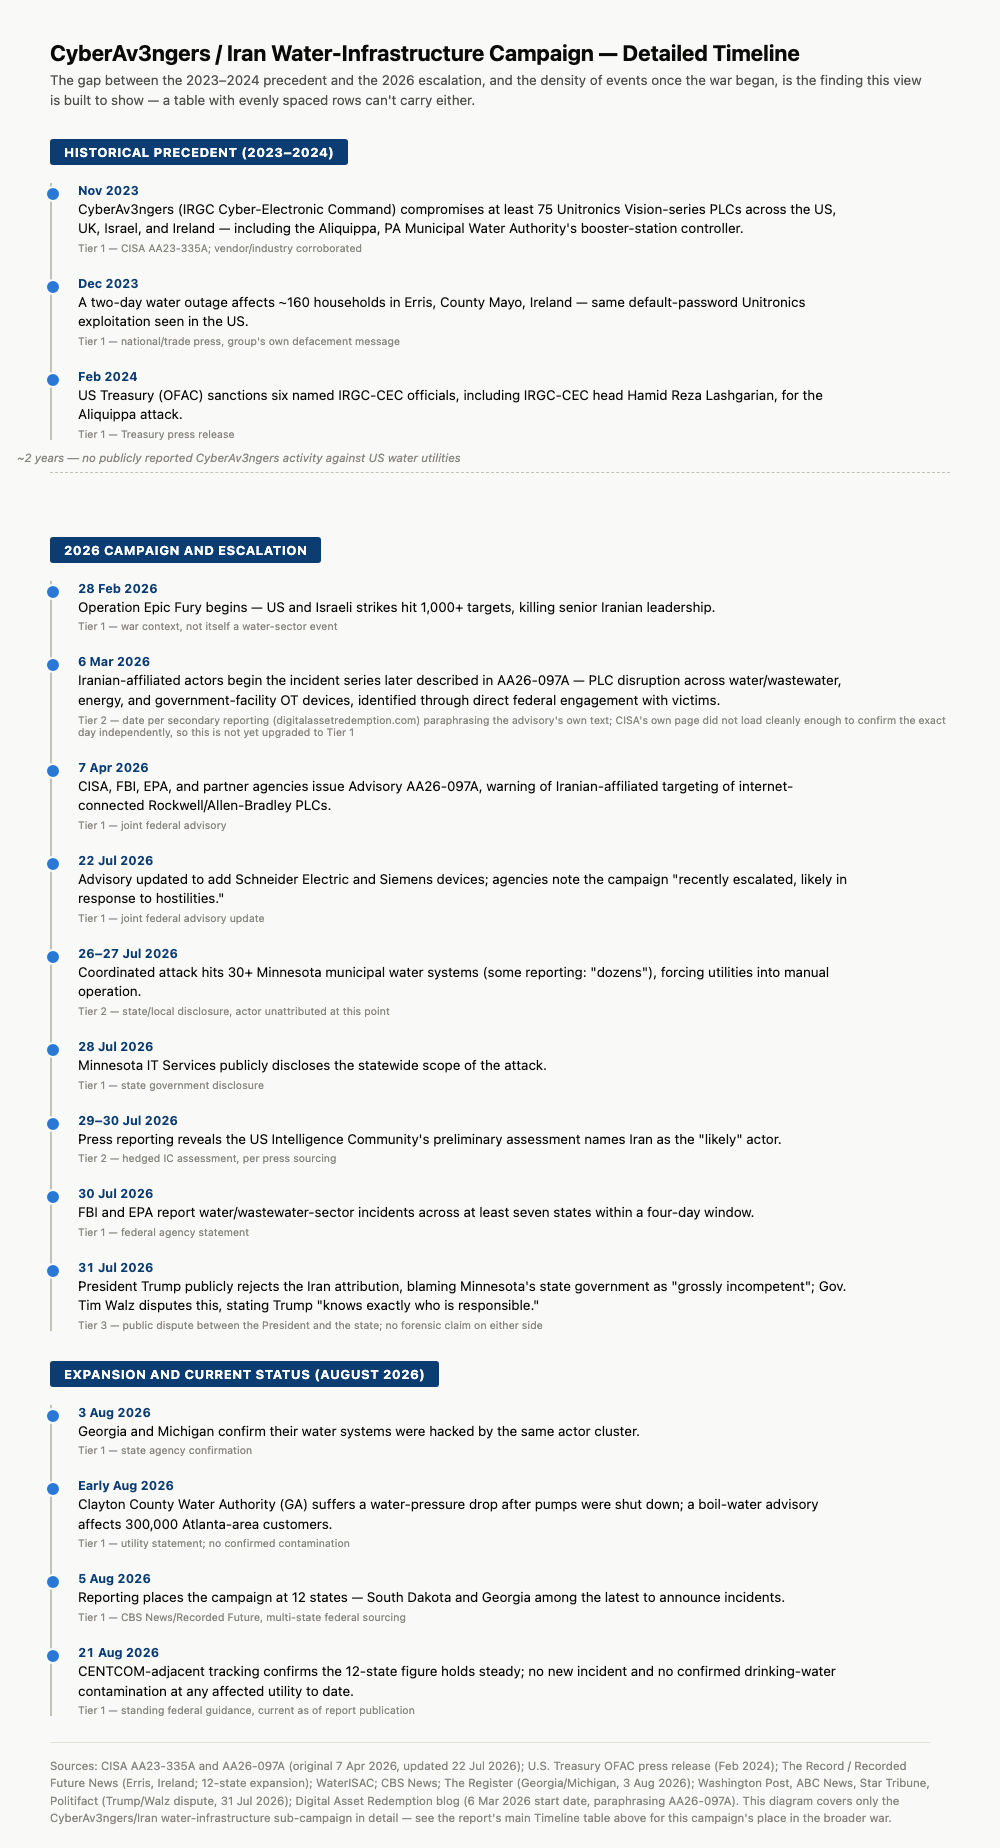
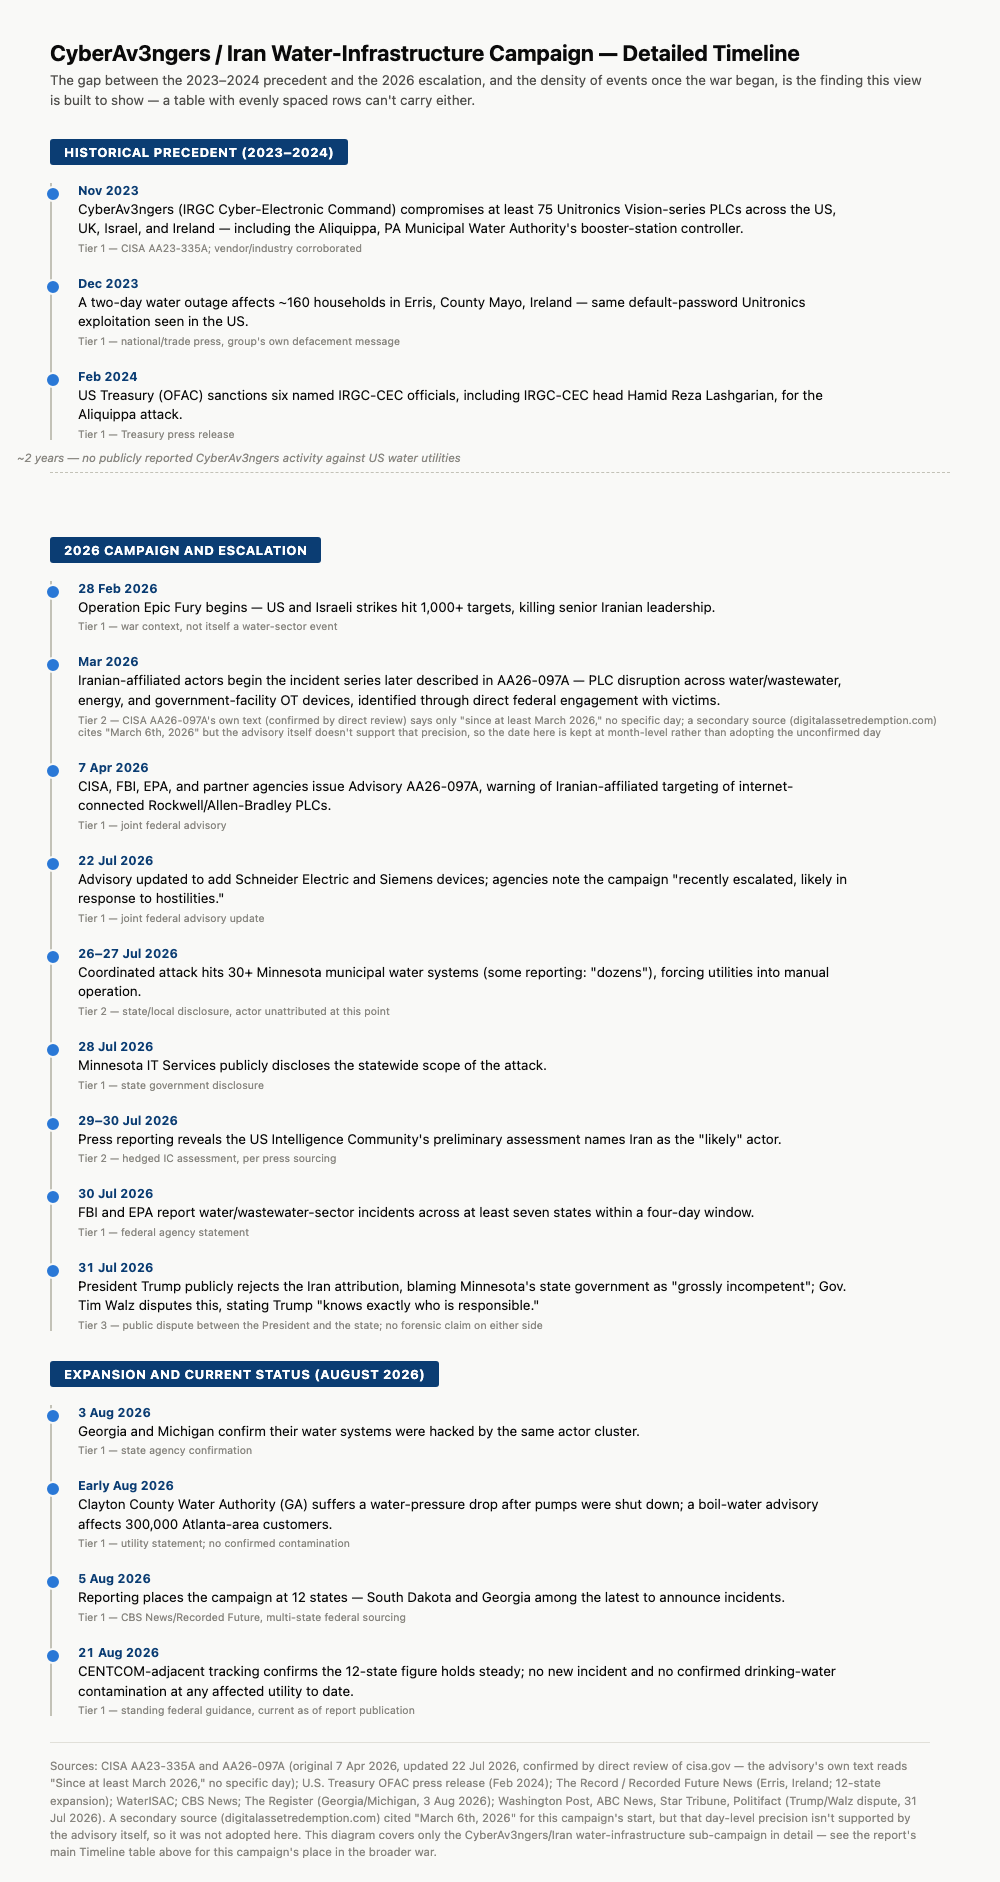
2026-08-22: Update Pass — CyberAv3ngers timeline caption: CISA AA26-097A confirmed to say 'since at least March 2026' only, no specific day — revert to month-level precision

diff --git a/reports/2026-08-21-israel-us-iran-cyber-operations.md b/reports/2026-08-21-israel-us-iran-cyber-operations.md
@@ -190,7 +190,8 @@ None. See Turing's note above.
 5g. [Trump blames Minnesota governor, not Iran, for cyberattacks on the state's water systems — ABC News](https://abcnews.com/Politics/trump-blames-minnesota-governor-iran-cyberattacks-states-water/story?id=135266259) — 31 July 2026 Trump/Walz dispute, corroborated by Washington Post, Star Tribune, and Politifact coverage of the same day.
 5h. [Iran restores internet after 88-day blackout, keeps social media blocked — Iran International](https://www.iranintl.com/en/202605251140) — 26 May 2026 restoration, ~86% connectivity, "Filternet"/social-media blocks remaining.
 5i. [2026 Internet Blackout in Iran — Wikipedia](https://en.wikipedia.org/wiki/2026_Internet_blackout_in_Iran) — full Jan 8–May 26 2026 blackout chronology; confirms the 456+ hour figure as the most severe shutdown in Iran's recorded history, deepened sharply by the 28 Feb war strikes.
-5j. [CISA Update on PLCs and Iranian Hackers — Digital Asset Redemption (Bola Ogbara, 31 Jul 2026)](https://www.digitalassetredemption.com/blog/cisa-update-on-plcs-and-iranian-hackers#main-content) — sourced by Rick; paraphrases AA26-097A's own text to date the water/wastewater/energy/government PLC incident series to 6 March 2026. A secondary (blog) source rather than the advisory text itself — CISA's own advisory page did not render fully enough during verification to independently confirm the exact day, so this date is tagged Tier 2 in the CyberAv3ngers timeline diagram rather than Tier 1.
+5j. [CISA Update on PLCs and Iranian Hackers — Digital Asset Redemption (Bola Ogbara, 31 Jul 2026)](https://www.digitalassetredemption.com/blog/cisa-update-on-plcs-and-iranian-hackers#main-content) — sourced by Rick; states "a series of incidents that started in March 6th, 2026." A secondary (blog) source rather than the advisory text itself.
+5k. [CISA Advisory AA26-097A — Iranian-Affiliated Cyber Actors Exploit Programmable Logic Controllers Across US Critical Infrastructure](https://www.cisa.gov/news-events/cybersecurity-advisories/aa26-097a) — read in full via Chrome MCP's accessibility-tree extraction after standard page-text extraction repeatedly failed on this page. The advisory's own text reads "Since at least March 2026, the authoring agencies identified [this activity] through engagements with victim organizations" — no specific day is given anywhere in the advisory, including its two IOC tables (which timestamp indicator activity to the month only). This directly contradicts the day-level precision in source 5j: the CyberAv3ngers timeline diagram's "Mar 2026" entry follows the primary advisory's own (month-only) precision rather than the secondary blog's more specific but unsupported date.
 
 **Forensics/technical/threat-intelligence:**
 6. [Iran vs. Israel & US Cyber War 2026: Operation Epic Fury Threat Intelligence — SOCRadar](https://socradar.io/blog/cyber-reflections-us-israel-iran-war/) — day-by-day hacktivist timeline, Iranian APT group profiles, MITRE ATT&CK matrix, hacktivist coalition counts (70+ pro-Iran vs. ~11 pro-Israel/allied), Stryker/Handala incident detail. Retrieved via Chrome MCP after a WebFetch 403.
